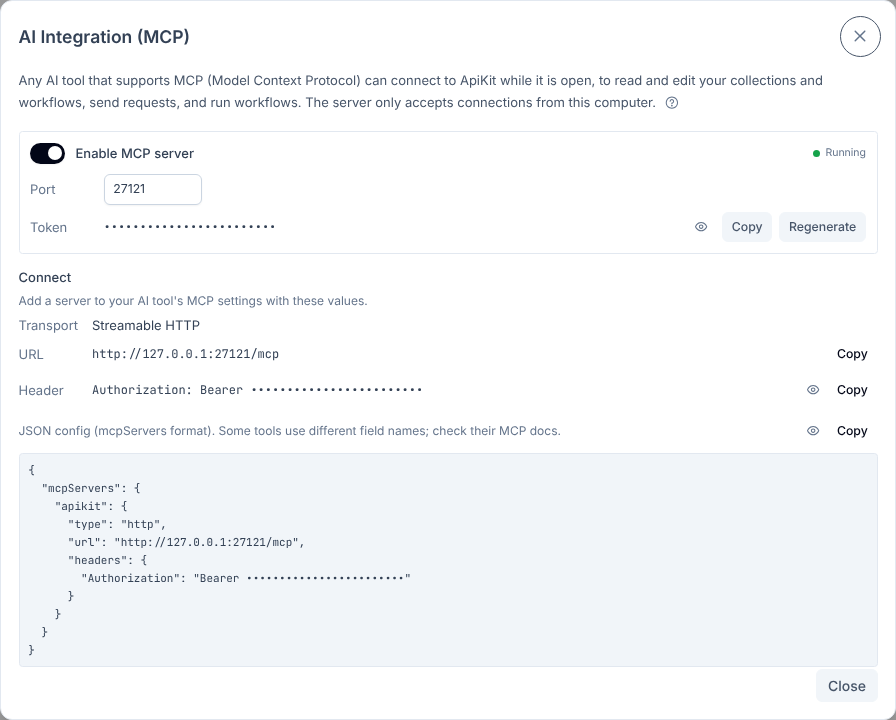
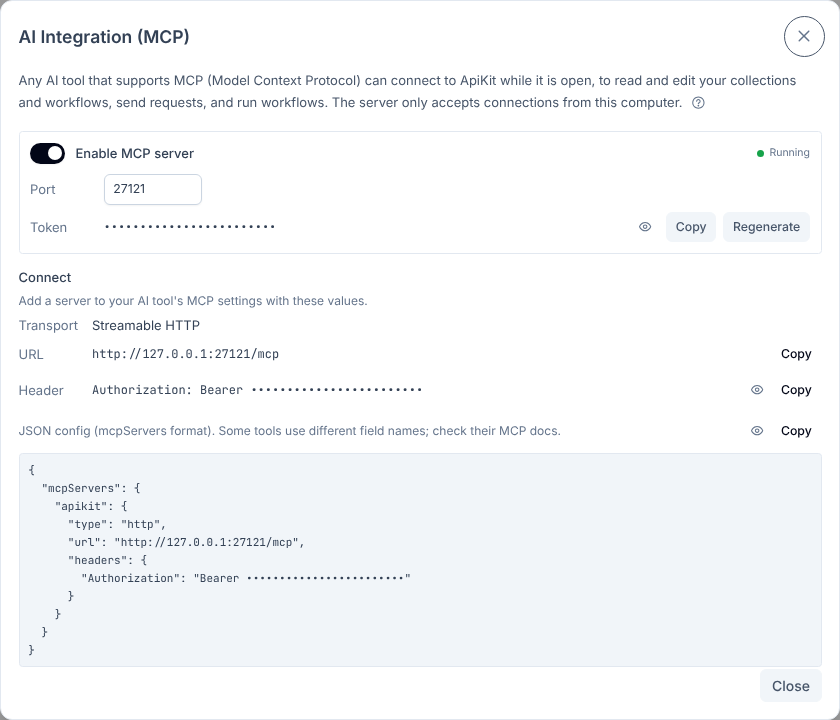
refactor: 弹窗宽度按内容统一为 5 档
- 新增 utils/dialogSize：sm 30rem、md 36rem、lg 42rem、xl 50rem、xxl 60rem，并限制不超出窗口
- Move Request 由 25rem 改为与 Save Request 相同的 md；Create New 原来的宽度没有生效，改为 md
- Manage Environments、AI Integration (MCP) 由 72vw/70vw 改为 xxl，大屏上不再过宽
- 其余固定宽度的弹窗按档位归类；编辑器、日志、预览等弹窗保持按窗口比例
- 重新生成 MCP 文档截图，更新日志

diff --git a/src/components/SequenceDialogs.vue b/src/components/SequenceDialogs.vue
@@ -1,4 +1,5 @@
 <script setup lang="ts">
+import { dialogStyle } from '@/utils/dialogSize';
 import { ref } from 'vue';
 import { useConfirm } from 'primevue/useconfirm';
 import { useSequencesStore, type Sequence } from '@/stores/sequences';
@@ -128,7 +129,7 @@ defineExpose({
     v-model:visible="showSequenceDialog"
     header="Manage Sequences"
     :modal="true"
-    :style="{ width: '700px' }"
+    :style="dialogStyle('xl')"
   >
     <div class="flex flex-col gap-4">
       <div v-if="sequencesStore.getAllSequences().length === 0" class="text-center py-8 text-surface-500 dark:text-surface-400 text-sm">
@@ -190,7 +191,7 @@ defineExpose({
     v-model:visible="showSequenceEditDialog"
     header="Edit Sequence"
     :modal="true"
-    :style="{ width: '400px' }"
+    :style="dialogStyle('sm')"
   >
     <div v-if="editingSequence" class="flex flex-col gap-4">
       <div>

diff --git a/src/utils/dialogSize.ts b/src/utils/dialogSize.ts
@@ -1,0 +1,21 @@
+// 弹窗宽度的档位：按内容选择档位，不在各个弹窗里单独写数值（根字号为 14px）。
+// 编辑器、日志、预览等需要尽量大的弹窗不用档位，按窗口比例设置并可最大化。
+
+export type DialogSize = 'sm' | 'md' | 'lg' | 'xl' | 'xxl';
+
+/**
+ * sm：单个字段、简短确认；md：名称加位置选择、选项列表；lg：多区块表单、列表；
+ * xl：宽表单、较长的列表；xxl：表格、配置页
+ */
+export const DIALOG_WIDTHS: Record<DialogSize, string> = {
+  sm: '30rem',
+  md: '36rem',
+  lg: '42rem',
+  xl: '50rem',
+  xxl: '60rem',
+};
+
+/** 弹窗的 style：固定宽度，窗口较小时不超出窗口 */
+export function dialogStyle(size: DialogSize): { width: string; maxWidth: string } {
+  return { width: DIALOG_WIDTHS[size], maxWidth: 'calc(100vw - 2rem)' };
+}

diff --git a/src/components/VariablesViewDialog.vue b/src/components/VariablesViewDialog.vue
@@ -1,4 +1,5 @@
 <script setup lang="ts">
+import { dialogStyle } from '@/utils/dialogSize';
 import { ref, computed } from 'vue';
 import { useEnvironmentsStore } from '@/stores/environments';
 import { useSequencesStore } from '@/stores/sequences';
@@ -252,7 +253,7 @@ defineExpose({ open: openVariablesView });
     v-model:visible="showVariablesViewDialog"
     header="Current Request Variables"
     :modal="true"
-    :style="{ width: '800px' }"
+    :style="dialogStyle('xxl')"
   >
     <div class="flex flex-col gap-6">
       <!-- Environment Variables -->
@@ -417,7 +418,7 @@ defineExpose({ open: openVariablesView });
     v-model:visible="showEditGlobalVarDialog"
     header="Edit Global Variable"
     :modal="true"
-    :style="{ width: '400px' }"
+    :style="dialogStyle('sm')"
   >
     <div class="flex flex-col gap-4">
       <div>

diff --git a/src/components/SaveToMockDialog.vue b/src/components/SaveToMockDialog.vue
@@ -1,4 +1,5 @@
 <script setup lang="ts">
+import { dialogStyle } from '@/utils/dialogSize';
 import { computed, ref, watch } from 'vue';
 import { useMocksStore } from '@/stores/mocks';
 import type { HttpMethod, HttpResponseView } from '@/types/models';
@@ -89,7 +90,7 @@ const save = async () => {
 </script>
 
 <template>
-  <Dialog v-model:visible="visible" header="Save Response to a Mock" modal :style="{ width: '30rem' }" :dismissable-mask="true">
+  <Dialog v-model:visible="visible" header="Save Response to a Mock" modal :style="dialogStyle('sm')" :dismissable-mask="true">
     <div class="flex flex-col gap-3 text-sm">
       <label class="flex flex-col gap-1 text-xs text-surface-500">Mock service
         <Select v-model="serviceId" :options="serviceOptions" option-label="label" option-value="value" aria-label="Mock service" />

diff --git a/src/components/NewMockDialog.vue b/src/components/NewMockDialog.vue
@@ -1,4 +1,5 @@
 <script setup lang="ts">
+import { dialogStyle } from '@/utils/dialogSize';
 import { computed, ref, watch } from 'vue';
 import { useCollectionsStore } from '@/stores/collections';
 import { useConsoleLogsStore } from '@/stores/consoleLogs';
@@ -166,7 +167,7 @@ const create = async () => {
 </script>
 
 <template>
-  <Dialog v-model:visible="visible" header="New Mock Service" modal :style="{ width: '46rem' }" :dismissable-mask="true">
+  <Dialog v-model:visible="visible" header="New Mock Service" modal :style="dialogStyle('xl')" :dismissable-mask="true">
     <div class="flex flex-col gap-4 text-sm">
       <div class="flex gap-3 flex-wrap items-end">
         <label class="flex flex-col gap-1 flex-1 min-w-60 text-xs text-surface-500">Name

diff --git a/src/components/WorkflowsPanel.vue b/src/components/WorkflowsPanel.vue
@@ -1,4 +1,5 @@
 <script setup lang="ts">
+import { dialogStyle } from '@/utils/dialogSize';
 import { computed, ref, watch } from 'vue';
 import { useConfirm } from 'primevue/useconfirm';
 import { usePointerTreeDrag } from '@/composables/usePointerTreeDrag';
@@ -367,7 +368,7 @@ const onTreeContextMenu = (event: MouseEvent) => {
 
     <ContextMenu ref="contextMenu" :model="menuItems" />
 
-    <Dialog v-model:visible="showNameDialog" :header="nameDialogText.header" :modal="true" :style="{ width: '25rem' }">
+    <Dialog v-model:visible="showNameDialog" :header="nameDialogText.header" :modal="true" :style="dialogStyle('sm')">
       <div>
         <label class="block text-sm font-medium mb-2">Name</label>
         <InputText

diff --git a/src/components/CreateNewModal.vue b/src/components/CreateNewModal.vue
@@ -1,4 +1,5 @@
 <script setup lang="ts">
+import { dialogStyle } from '@/utils/dialogSize';
 import { ref } from 'vue';
 
 type CreateType = 'request' | 'collection' | 'environment' | 'mock';
@@ -53,7 +54,7 @@ const handleClose = () => {
     modal
     :closable="true"
     :draggable="false"
-    class="create-new-dialog"
+    :style="dialogStyle('md')"
     @update:visible="handleClose"
   >
     <template #header>
@@ -94,11 +95,6 @@ const handleClose = () => {
 </template>
 
 <style scoped>
-.create-new-dialog {
-  width: 500px;
-  max-width: 90vw;
-}
-
 .create-options-grid {
   display: flex;
   flex-direction: column;

diff --git a/src/components/McpConfirmDialog.vue b/src/components/McpConfirmDialog.vue
@@ -1,4 +1,5 @@
 <script setup lang="ts">
+import { dialogStyle } from '@/utils/dialogSize';
 import { computed, watch } from 'vue';
 import { getCurrentWindow, UserAttentionType } from '@tauri-apps/api/window';
 import { useMcpStore } from '@/stores/mcp';
@@ -24,7 +25,7 @@ const answer = (value: 'deny' | 'allow' | 'allowAll') => {
     :header="confirmation?.title || ''"
     :modal="true"
     :closable="false"
-    :style="{ width: '30rem' }"
+    :style="dialogStyle('sm')"
   >
     <div v-if="confirmation" class="flex flex-col gap-3 text-sm">
       <div class="grid grid-cols-[3.5rem_1fr] gap-x-3 gap-y-1.5">

diff --git a/src/components/ImportDialog.vue b/src/components/ImportDialog.vue
@@ -1,4 +1,5 @@
 <script setup lang="ts">
+import { dialogStyle } from '@/utils/dialogSize';
 import { computed, ref } from 'vue';
 import { importExportService, type ImportFilePreview } from '@/services/import-export';
 import type { Collection, Environment, Request } from '@/types/models';
@@ -321,7 +322,7 @@ defineExpose({ open: openImportDialog });
     v-model:visible="showImportDialog"
     header="Import"
     :modal="true"
-    :style="{ width: '40rem' }"
+    :style="dialogStyle('lg')"
     @hide="closeImportDialog"
   >
     <div class="flex flex-col gap-4">

diff --git a/src/components/NewCollectionItemDialog.vue b/src/components/NewCollectionItemDialog.vue
@@ -1,4 +1,5 @@
 <script setup lang="ts">
+import { dialogStyle } from '@/utils/dialogSize';
 import { ref, computed } from 'vue';
 import { useCollectionsStore } from '@/stores/collections';
 import type { Collection, Folder } from '@/types/models';
@@ -71,7 +72,7 @@ defineExpose({ open: openCreateDialog });
     v-model:visible="showCreateDialog"
     :header="dialogMode === 'collection' ? 'New Collection' : 'New Folder'"
     :modal="true"
-    :style="{ width: '25rem' }"
+    :style="dialogStyle('sm')"
   >
     <div class="flex flex-col gap-4">
       <div>

diff --git a/test/utils/dialog-size.test.ts b/test/utils/dialog-size.test.ts
@@ -1,0 +1,13 @@
+import { describe, expect, it } from 'vitest';
+import { DIALOG_WIDTHS, dialogStyle } from '@/utils/dialogSize';
+
+describe('dialog sizes', () => {
+  it('uses increasing fixed widths for the size tiers', () => {
+    const widths = (['sm', 'md', 'lg', 'xl', 'xxl'] as const).map(size => parseFloat(DIALOG_WIDTHS[size]));
+    expect(widths).toEqual([30, 36, 42, 50, 60]);
+  });
+
+  it('keeps the dialog inside a small window', () => {
+    expect(dialogStyle('md')).toEqual({ width: '36rem', maxWidth: 'calc(100vw - 2rem)' });
+  });
+});

diff --git a/src/components/McpDialog.vue b/src/components/McpDialog.vue
@@ -1,4 +1,5 @@
 <script setup lang="ts">
+import { dialogStyle } from '@/utils/dialogSize';
 import { computed, ref, watch } from 'vue';
 import { useMcpStore } from '@/stores/mcp';
 import { MCP_TOOLS } from '@/services/mcp/tools';
@@ -98,7 +99,7 @@ const formatTime = (iso: string) => new Date(iso).toLocaleTimeString();
     @update:visible="closeDialog"
     header="AI Integration (MCP)"
     :modal="true"
-    :style="{ width: '70vw' }"
+    :style="dialogStyle('xxl')"
     :dismissableMask="true"
   >
     <div class="flex flex-col gap-4 text-sm">
